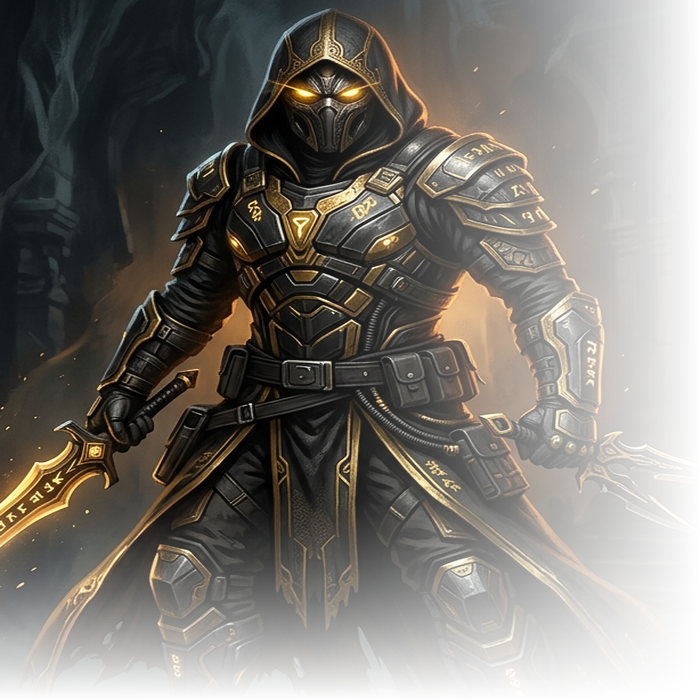
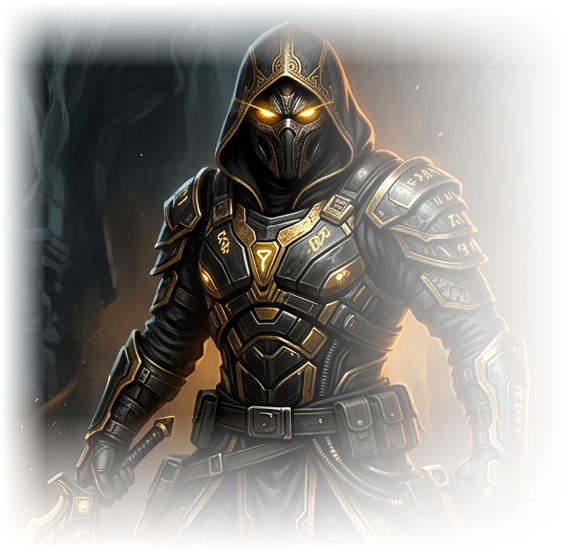
fix(ui): seamless marketplace cards, compact hero, crisp VP hero, removed profiles nav, and dark concept art profile cards

diff --git a/src/components/client/ClientHomePage.tsx b/src/components/client/ClientHomePage.tsx
@@ -57,7 +57,7 @@ export const ClientHomePage: React.FC<ClientHomePageProps> = ({
       rankColor: 'text-[#f43f5e] bg-[#f43f5e]/10 border-[#f43f5e]/30',
       priceINR: 24999,
       originalPriceINR: 32999,
-      avatarImg: '/assets/hires/profiles/card1_omen.jpg',
+      avatarImg: '/assets/hires/profiles/card1_exact.jpg',
       weapons: [
         { img: '/assets/items/vandal-prime.png', border: 'border-amber-500/40' },
         { img: '/assets/items/vandal-rgx.png', border: 'border-emerald-500/40' },
@@ -74,7 +74,7 @@ export const ClientHomePage: React.FC<ClientHomePageProps> = ({
       rankColor: 'text-[#10b981] bg-[#10b981]/10 border-[#10b981]/30',
       priceINR: 14999,
       originalPriceINR: 19999,
-      avatarImg: '/assets/hires/profiles/card2_reyna.jpg',
+      avatarImg: '/assets/hires/profiles/card2_exact.jpg',
       weapons: [
         { img: '/assets/items/vandal-prime.png', border: 'border-amber-500/40' },
         { img: '/assets/items/phantom-rgx.png', border: 'border-cyan-500/40' },
@@ -91,7 +91,7 @@ export const ClientHomePage: React.FC<ClientHomePageProps> = ({
       rankColor: 'text-[#fbbf24] bg-[#fbbf24]/10 border-[#fbbf24]/30',
       priceINR: 59999,
       originalPriceINR: 89999,
-      avatarImg: '/assets/hires/profiles/card3_phoenix.jpg',
+      avatarImg: '/assets/hires/profiles/card3_exact.jpg',
       weapons: [
         { img: '/assets/items/vandal-prime.png', border: 'border-amber-500/50' },
         { img: '/assets/items/vandal-reaper.png', border: 'border-purple-500/50' },
@@ -108,7 +108,7 @@ export const ClientHomePage: React.FC<ClientHomePageProps> = ({
       rankColor: 'text-[#c084fc] bg-[#c084fc]/10 border-[#c084fc]/30',
       priceINR: 8999,
       originalPriceINR: 14999,
-      avatarImg: '/assets/hires/profiles/card4_viper.jpg',
+      avatarImg: '/assets/hires/profiles/card4_exact.jpg',
       weapons: [
         { img: '/assets/items/vandal-prime.png', border: 'border-amber-500/40' },
         { img: '/assets/items/phantom-rgx.png', border: 'border-cyan-500/40' },
@@ -125,7 +125,7 @@ export const ClientHomePage: React.FC<ClientHomePageProps> = ({
       rankColor: 'text-[#10b981] bg-[#10b981]/10 border-[#10b981]/30',
       priceINR: 16999,
       originalPriceINR: 24999,
-      avatarImg: '/assets/hires/profiles/card5_yoru.jpg',
+      avatarImg: '/assets/hires/profiles/card5_exact.jpg',
       weapons: [
         { img: '/assets/items/vandal-rgx.png', border: 'border-emerald-500/40' },
         { img: '/assets/items/vandal-reaper.png', border: 'border-purple-500/40' },
@@ -137,56 +137,42 @@ export const ClientHomePage: React.FC<ClientHomePageProps> = ({
 
   return (
     <div className="w-full bg-[#05040a] text-white selection:bg-purple-600 selection:text-white space-y-8 sm:space-y-10 pb-16">
-      {/* Breadcrumb Navigation matching Reference Image media_1789878444993.jpg */}
-      <div className="max-w-[1360px] mx-auto px-4 sm:px-6 lg:px-8 pt-3">
-        <div className="flex items-center gap-2 text-xs text-gray-400 font-medium">
-          <button
-            onClick={() => onNavigate('home')}
-            className="hover:text-purple-400 transition-colors cursor-pointer text-gray-400"
-          >
-            Home
-          </button>
-          <span className="text-gray-600">&gt;</span>
-          <span className="text-purple-400 font-medium">Digital Profiles</span>
-        </div>
-      </div>
-
       {/* ========================================================================= */}
       {/* 1. HERO SECTION (Matching Reference Image media_1789878444993.jpg)       */}
       {/* ========================================================================= */}
-      <section className="relative w-full overflow-hidden min-h-[380px] sm:min-h-[420px] lg:min-h-[450px] flex items-center">
+      <section className="relative w-full overflow-hidden min-h-[250px] sm:min-h-[280px] lg:min-h-[310px] flex items-center pt-1 pb-1">
         {/* Ambient atmospheric purple lighting */}
-        <div className="absolute top-1/3 right-1/4 w-[500px] h-[380px] bg-purple-600/20 rounded-full blur-[120px] pointer-events-none z-[1]" />
-        <div className="absolute bottom-0 left-10 w-[400px] h-[260px] bg-fuchsia-800/15 rounded-full blur-[90px] pointer-events-none z-[1]" />
+        <div className="absolute top-1/3 right-1/4 w-[380px] h-[260px] bg-purple-600/20 rounded-full blur-[100px] pointer-events-none z-[1]" />
+        <div className="absolute bottom-0 left-10 w-[300px] h-[180px] bg-fuchsia-800/15 rounded-full blur-[70px] pointer-events-none z-[1]" />
 
-        {/* Right-aligned Hero Art container matching 16:9 reference scene without top/bottom clipping */}
-        <div className="absolute top-0 right-0 bottom-0 w-full lg:w-[54%] pointer-events-none select-none overflow-hidden z-0 flex items-center justify-end">
+        {/* Right-aligned Hero Art container matching reference scene without overpowering the screen */}
+        <div className="absolute top-0 right-0 bottom-0 w-full sm:w-[46%] lg:w-[42%] max-w-[460px] pointer-events-none select-none overflow-hidden z-0 flex items-center justify-end">
           <img
             src="/assets/hires/hero_banner_full.jpg"
             alt="VIB Digital Profiles Heroine"
-            className="w-full h-full object-cover object-center select-none pointer-events-none opacity-95"
+            className="w-full h-full object-cover object-right select-none pointer-events-none opacity-90 scale-95"
           />
           {/* Smooth feathering gradient on the left boundary */}
-          <div className="absolute inset-y-0 left-0 w-40 sm:w-60 bg-gradient-to-r from-[#05040a] via-[#05040a]/80 to-transparent z-[1]" />
+          <div className="absolute inset-y-0 left-0 w-28 sm:w-40 bg-gradient-to-r from-[#05040a] via-[#05040a]/80 to-transparent z-[1]" />
           {/* Subtle top/bottom edge softening */}
-          <div className="absolute inset-x-0 top-0 h-10 bg-gradient-to-b from-[#05040a] to-transparent z-[1]" />
-          <div className="absolute inset-x-0 bottom-0 h-12 bg-gradient-to-t from-[#05040a] to-transparent z-[1]" />
+          <div className="absolute inset-x-0 top-0 h-8 bg-gradient-to-b from-[#05040a] to-transparent z-[1]" />
+          <div className="absolute inset-x-0 bottom-0 h-10 bg-gradient-to-t from-[#05040a] to-transparent z-[1]" />
         </div>
 
-        <div className="max-w-[1360px] mx-auto px-4 sm:px-6 lg:px-8 w-full relative z-10 py-6 sm:py-9">
-          <div className="max-w-xl lg:max-w-xl space-y-3.5">
+        <div className="max-w-[1360px] mx-auto px-4 sm:px-6 lg:px-8 w-full relative z-10 py-4 sm:py-6">
+          <div className="max-w-xl lg:max-w-xl space-y-3">
             {/* Main Headline (2 lines matching reference exactly) */}
-            <div className="space-y-1">
-              <h1 className="text-4xl sm:text-5xl lg:text-6xl font-black uppercase tracking-tight text-white leading-none font-rajdhani">
+            <div className="space-y-0.5">
+              <h1 className="text-3xl sm:text-4xl lg:text-5xl font-black uppercase tracking-tight text-white leading-none font-rajdhani">
                 EXPLORE
               </h1>
-              <div className="text-4xl sm:text-5xl lg:text-6xl font-black uppercase tracking-tight leading-none font-rajdhani text-transparent bg-clip-text bg-gradient-to-r from-[#f3e8ff] via-[#d946ef] to-[#a855f7] drop-shadow-[0_0_30px_rgba(217,70,239,0.65)]">
+              <div className="text-3xl sm:text-4xl lg:text-5xl font-black uppercase tracking-tight leading-none font-rajdhani text-transparent bg-clip-text bg-gradient-to-r from-[#f3e8ff] via-[#d946ef] to-[#a855f7] drop-shadow-[0_0_25px_rgba(217,70,239,0.6)]">
                 DIGITAL PROFILES
               </div>
             </div>
 
             {/* Subtitle */}
-            <p className="text-gray-300 text-xs sm:text-sm leading-relaxed font-normal max-w-lg">
+            <p className="text-gray-300 text-xs sm:text-sm leading-relaxed font-normal max-w-md">
               Find your next competitive identity. Choose a marketplace below to start browsing verified profiles or community listings.
             </p>
 
@@ -194,19 +180,19 @@ export const ClientHomePage: React.FC<ClientHomePageProps> = ({
             <div className="flex flex-wrap items-center gap-2 pt-1">
               <div className="px-3 py-1.5 rounded-full bg-[#120f24]/90 border border-purple-500/35 text-xs text-gray-200 flex items-center gap-2 shadow-md">
                 <ShieldCheck className="w-3.5 h-3.5 text-purple-400" />
-                <span className="font-medium">Safe &amp; Secure</span>
+                <span className="font-medium text-[11px]">Safe &amp; Secure</span>
               </div>
               <div className="px-3 py-1.5 rounded-full bg-[#120f24]/90 border border-purple-500/35 text-xs text-gray-200 flex items-center gap-2 shadow-md">
                 <Check className="w-3.5 h-3.5 text-purple-400" />
-                <span className="font-medium">Verified Process</span>
+                <span className="font-medium text-[11px]">Verified Process</span>
               </div>
               <div className="px-3 py-1.5 rounded-full bg-[#120f24]/90 border border-purple-500/35 text-xs text-gray-200 flex items-center gap-2 shadow-md">
                 <Users className="w-3.5 h-3.5 text-purple-400" />
-                <span className="font-medium">Active Community</span>
+                <span className="font-medium text-[11px]">Active Community</span>
               </div>
               <div className="px-3 py-1.5 rounded-full bg-[#120f24]/90 border border-purple-500/35 text-xs text-gray-200 flex items-center gap-2 shadow-md">
                 <Headphones className="w-3.5 h-3.5 text-purple-400" />
-                <span className="font-medium">Dedicated Support</span>
+                <span className="font-medium text-[11px]">Dedicated Support</span>
               </div>
             </div>
           </div>
@@ -246,13 +232,13 @@ export const ClientHomePage: React.FC<ClientHomePageProps> = ({
               }`}
             >
               {/* Full background ambient character art (Hooded Assassin with golden rim lighting) */}
-              <div className="absolute inset-y-0 left-0 w-full sm:w-[58%] overflow-hidden pointer-events-none select-none z-0">
+              <div className="absolute inset-y-0 left-0 w-full sm:w-[50%] overflow-hidden pointer-events-none select-none z-0">
                 <img
                   src="/assets/hires/card_guaranteed_agent.png"
                   alt="Guaranteed Agent"
-                  className="w-full h-full object-cover object-left opacity-80"
+                  className="w-full h-full object-cover object-left opacity-75 [mask-image:linear-gradient(to_right,black_30%,transparent_95%)] [-webkit-mask-image:linear-gradient(to_right,black_30%,transparent_95%)]"
                 />
-                <div className="absolute inset-0 bg-gradient-to-r from-transparent via-[#130f1c]/75 to-[#0d0914]" />
+                <div className="absolute inset-0 bg-gradient-to-r from-transparent via-[#130f1c]/80 to-[#0d0914]" />
               </div>
 
               {/* Card Header Content */}
@@ -308,7 +294,10 @@ export const ClientHomePage: React.FC<ClientHomePageProps> = ({
               </div>
               <button
                 type="button"
-                onClick={() => onNavigate('profiles')}
+                onClick={() => {
+                  const el = document.getElementById('featured-profiles');
+                  if (el) el.scrollIntoView({ behavior: 'smooth' });
+                }}
                 className="text-purple-400 font-semibold text-[11px] ml-3 whitespace-nowrap hover:underline flex items-center gap-1 cursor-pointer"
               >
                 <span>Learn More</span>
@@ -330,13 +319,13 @@ export const ClientHomePage: React.FC<ClientHomePageProps> = ({
               }`}
             >
               {/* Full background ambient character art (Cyber Blue Agent) */}
-              <div className="absolute inset-y-0 right-0 w-full sm:w-[58%] overflow-hidden pointer-events-none select-none z-0">
+              <div className="absolute inset-y-0 right-0 w-full sm:w-[50%] overflow-hidden pointer-events-none select-none z-0">
                 <img
                   src="/assets/hires/card_public_agent.png"
                   alt="Public Cyber Agent"
-                  className="w-full h-full object-cover object-right opacity-80"
+                  className="w-full h-full object-cover object-right opacity-80 [mask-image:linear-gradient(to_left,black_30%,transparent_95%)] [-webkit-mask-image:linear-gradient(to_left,black_30%,transparent_95%)]"
                 />
-                <div className="absolute inset-0 bg-gradient-to-l from-transparent via-[#090f1d]/75 to-[#070b16]" />
+                <div className="absolute inset-0 bg-gradient-to-l from-transparent via-[#090f1d]/80 to-[#070b16]" />
               </div>
 
               {/* Card Header Content */}
@@ -392,7 +381,10 @@ export const ClientHomePage: React.FC<ClientHomePageProps> = ({
               </div>
               <button
                 type="button"
-                onClick={() => onNavigate('profiles')}
+                onClick={() => {
+                  const el = document.getElementById('featured-profiles');
+                  if (el) el.scrollIntoView({ behavior: 'smooth' });
+                }}
                 className="text-purple-400 font-semibold text-[11px] ml-3 whitespace-nowrap hover:underline flex items-center gap-1 cursor-pointer"
               >
                 <span>Learn More</span>
@@ -407,7 +399,7 @@ export const ClientHomePage: React.FC<ClientHomePageProps> = ({
       {/* ========================================================================= */}
       {/* 3. FEATURED LISTINGS: Handpicked Featured Profiles (Matching Reference)   */}
       {/* ========================================================================= */}
-      <section className="max-w-[1360px] mx-auto px-4 sm:px-6 lg:px-8 space-y-4">
+      <section id="featured-profiles" className="max-w-[1360px] mx-auto px-4 sm:px-6 lg:px-8 space-y-4">
         {/* Section Header */}
         <div className="flex flex-col sm:flex-row sm:items-center justify-between gap-4">
           <div>
@@ -425,7 +417,10 @@ export const ClientHomePage: React.FC<ClientHomePageProps> = ({
 
           <div className="flex items-center gap-2">
             <button
-              onClick={() => onNavigate('profiles')}
+              onClick={() => {
+                const el = document.getElementById('featured-profiles');
+                if (el) el.scrollIntoView({ behavior: 'smooth' });
+              }}
               className="px-4 py-1.5 rounded-xl bg-[#23153c] border border-purple-500/40 text-xs font-bold text-purple-200 hover:bg-purple-600 hover:text-white transition-all flex items-center gap-1.5 cursor-pointer shadow-md"
             >
               <span>View All Featured</span>

diff --git a/src/components/client/ClientVPOverviewPage.tsx b/src/components/client/ClientVPOverviewPage.tsx
@@ -138,22 +138,49 @@ export const ClientVPOverviewPage: React.FC<ClientVPOverviewPageProps> = ({
             </div>
           </div>
 
-          {/* Right Hero Graphic: Cinematic Dark Omen with floating coins & online card matching reference */}
+          {/* Right Hero Graphic: Cinematic Dark Omen with floating coins & crisp HTML online card matching reference */}
           <div className="lg:col-span-7 relative flex flex-col items-end">
-            <div className="relative w-full max-w-[780px] h-[360px] sm:h-[440px] lg:h-[500px] xl:h-[540px] flex items-center justify-end">
+            <div className="relative w-full max-w-[720px] h-[360px] sm:h-[420px] lg:h-[480px] flex items-center justify-end">
               <img
                 src="/assets/hires/vp_landing_hero.png"
                 alt="VIB VP Master Omen"
-                className="w-full h-full object-contain object-right filter drop-shadow-[0_0_40px_rgba(168,85,247,0.4)] relative z-10 select-none pointer-events-none"
+                className="w-full h-full object-contain object-right select-none pointer-events-none drop-shadow-[0_0_35px_rgba(168,85,247,0.35)]"
               />
-              {/* Clickable WhatsApp overlay over the "WhatsApp Us" button in the graphic */}
-              <a
-                href="https://wa.me/919181801766?text=Hello%20VIB%20Team%2C%20I%20need%20assistance%20with%20VP%20packs"
-                target="_blank"
-                rel="noreferrer"
-                className="absolute top-[30%] right-[3%] w-[130px] h-[38px] z-20 rounded-lg cursor-pointer hover:bg-purple-500/20 transition-colors"
-                title="WhatsApp Us"
-              />
+
+              {/* Crisp HTML/CSS "WE ARE ONLINE" Card matching reference */}
+              <div className="absolute top-3 sm:top-6 right-2 sm:right-6 z-20 bg-[#120a22]/85 backdrop-blur-md border border-purple-500/35 rounded-2xl p-3 sm:p-4 shadow-[0_0_25px_rgba(168,85,247,0.25)] max-w-[210px] sm:max-w-[230px]">
+                <div className="flex items-center gap-2">
+                  <div className="w-7 h-7 rounded-full bg-purple-500/20 border border-purple-500/40 flex items-center justify-center text-purple-300 flex-shrink-0">
+                    <Headphones className="w-3.5 h-3.5" />
+                  </div>
+                  <div>
+                    <div className="text-[9px] font-mono tracking-wider text-purple-300 uppercase font-semibold">WE ARE ONLINE</div>
+                    <div className="text-xs font-bold text-white">9 AM - 9 PM</div>
+                  </div>
+                </div>
+                <p className="text-[10px] text-gray-300 mt-2 leading-tight">
+                  For orders outside this time, please contact us on WhatsApp.
+                </p>
+                <a
+                  href="https://wa.me/919181801766?text=Hello%20VIB%20Team%2C%20I%20need%20assistance%20with%20VP%20packs"
+                  target="_blank"
+                  rel="noreferrer"
+                  className="mt-2.5 w-full py-1.5 px-3 rounded-lg bg-gradient-to-r from-purple-600 to-fuchsia-600 hover:from-purple-500 hover:to-fuchsia-500 text-white text-[11px] font-bold flex items-center justify-center gap-1.5 shadow-[0_0_12px_rgba(168,85,247,0.4)] transition-all cursor-pointer"
+                >
+                  <span>WhatsApp Us</span>
+                  <ArrowRight className="w-3 h-3" />
+                </a>
+              </div>
+
+              {/* Purple Neon Graffiti Text */}
+              <div className="absolute bottom-6 sm:bottom-10 right-3 sm:right-6 z-20 pointer-events-none select-none text-right hidden sm:block">
+                <div className="text-lg sm:text-xl font-black italic tracking-wider text-[#d946ef] drop-shadow-[0_0_15px_rgba(217,70,239,0.8)] font-rajdhani">
+                  PLAY. UPGRADE. BELONG.
+                </div>
+                <div className="text-[10px] sm:text-xs font-extrabold italic tracking-widest text-[#a855f7] drop-shadow-[0_0_10px_rgba(168,85,247,0.8)] font-rajdhani mt-0.5">
+                  SAME GAME. MORE POSSIBILITIES.
+                </div>
+              </div>
             </div>
           </div>
         </div>

diff --git a/src/App.tsx b/src/App.tsx
@@ -19,7 +19,7 @@ export default function App() {
     try {
       const params = new URLSearchParams(window.location.search);
       const p = params.get('page') as ClientPage;
-      if (p && ['home', 'profiles', 'vp', 'vp-catalog', 'services'].includes(p)) {
+      if (p && ['home', 'vp', 'vp-catalog', 'services'].includes(p)) {
         return p;
       }
     } catch {}
@@ -35,8 +35,10 @@ export default function App() {
     const onPopState = () => {
       const params = new URLSearchParams(window.location.search);
       const p = (params.get('page') as ClientPage) || 'home';
-      if (['home', 'profiles', 'vp', 'vp-catalog', 'services'].includes(p)) {
+      if (['home', 'vp', 'vp-catalog', 'services'].includes(p)) {
         setCurrentPage(p);
+      } else {
+        setCurrentPage('home');
       }
     };
     window.addEventListener('popstate', onPopState);
@@ -112,6 +114,12 @@ export default function App() {
       return;
     }
 
+    if (page === 'profiles') {
+      setCurrentPage('home');
+      window.scrollTo({ top: 0, behavior: 'smooth' });
+      return;
+    }
+
     setCurrentPage(page);
     window.scrollTo({ top: 0, behavior: 'smooth' });
   };
@@ -135,7 +143,7 @@ export default function App() {
         onToggleSound={() => setSoundEnabled((prev) => !prev)}
         onSearch={(q) => {
           setSearchQuery(q);
-          setCurrentPage('profiles');
+          setCurrentPage('home');
         }}
       />
 

diff --git a/src/components/client/Header.tsx b/src/components/client/Header.tsx
@@ -108,18 +108,6 @@ export const Header: React.FC<HeaderProps> = ({
 
           <button
             type="button"
-            onClick={() => handleNav('profiles')}
-            className={`px-3 py-1 rounded-full transition-all cursor-pointer ${
-              currentPage === 'profiles'
-                ? 'bg-[#8a2be2]/30 text-white font-semibold border border-[#9333ea]/50 shadow-[0_0_10px_rgba(147,51,234,0.3)]'
-                : 'hover:text-white hover:bg-white/5'
-            }`}
-          >
-            Digital Profiles
-          </button>
-
-          <button
-            type="button"
             onClick={() => handleNav('vp')}
             className={`px-3 py-1 rounded-full transition-all cursor-pointer ${
               currentPage === 'vp' || currentPage === 'vp-catalog'
@@ -284,12 +272,6 @@ export const Header: React.FC<HeaderProps> = ({
               className={`p-2 rounded-lg text-left ${currentPage === 'home' ? 'bg-fuchsia-600/30 text-white font-bold' : 'text-gray-300 hover:bg-white/5'}`}
             >
               Home
-            </button>
-            <button
-              onClick={() => handleNav('profiles')}
-              className={`p-2 rounded-lg text-left ${currentPage === 'profiles' ? 'bg-fuchsia-600/30 text-white font-bold' : 'text-gray-300 hover:bg-white/5'}`}
-            >
-              Digital Profiles
             </button>
             <button
               onClick={() => handleNav('vp')}
